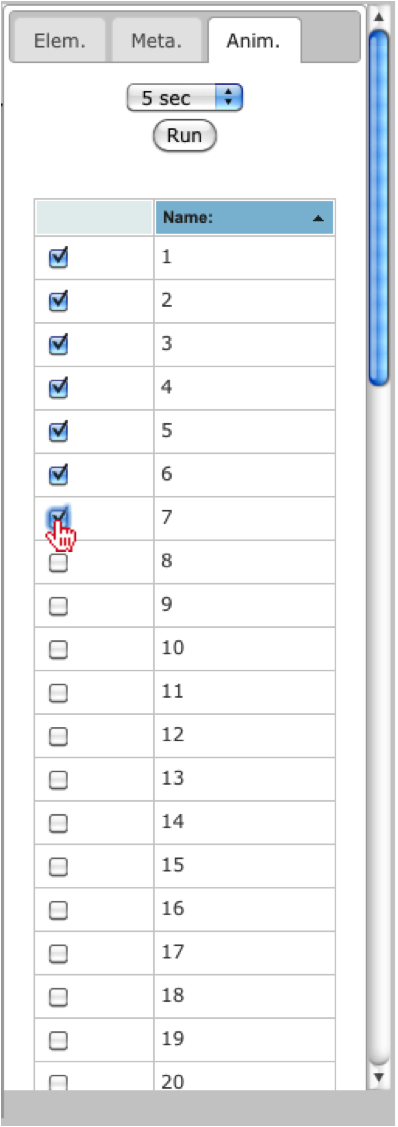
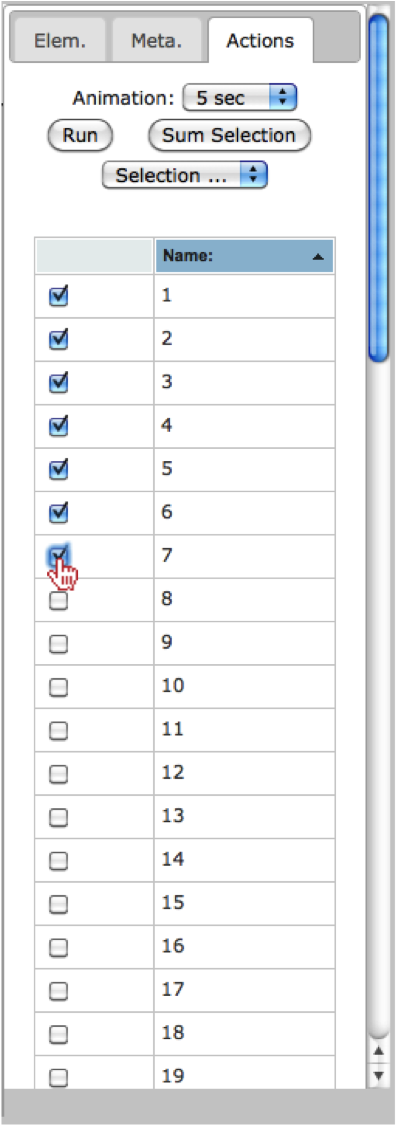
updated figures and text to correspond to those figures.

Changed region(s): [[0.0, 0.0, 0.9975, 1.0], [0.9068, 0.0, 0.9975, 0.3416], [0.9068, 0.9006, 0.9975, 0.9627]]

diff --git a/doc_source/tutorials/index.rst b/doc_source/tutorials/index.rst
@@ -40,7 +40,7 @@ Now that the image is loaded, we need to open the associated metadata by clickin
     :align: center
     :width: 500px
     
-The user should navigate to the tutorial files again and should select either the principal coordinate file (:file:`hand_weighted_unifrac_pc.txt`) or the summarized taxonomy file (:file:`hand_otu_filtered_sep7_L3.txt`), which were produced by QIIME. For this tutorial, we will select and open the :file:`hand_weighted_unifrac_pc.txt` file. 
+The user should navigate to the tutorial files again and should select either the principal coordinate file (:file:`hand_weighted_unifrac_pc.txt`) or the summarized taxonomy file (:file:`hand_otu_table_phylum.txt`), which were produced by QIIME. For this tutorial, we will select and open the :file:`hand_weighted_unifrac_pc.txt` file. 
 
 .. image:: ../images/open_hand_pc.png
     :align: center
@@ -155,7 +155,7 @@ Now that we have manipulated the colors of the image, we can reset the colors by
 Create Animation
 -----------------
 
-Since there several principal coordinate vectors, the user may want to create an animation, where each category is mapped onto the hand for a short amount of time, then it iterates to the next category. This allows the user to view the mapping of each category without having to select and map each category onto the image.  To generate an animation, the user should select the "Anim." tab in the right-menu. Once selected, we will leave the default timer as 5 seconds.
+Since there several principal coordinate vectors, the user may want to create an animation, where each category is mapped onto the hand for a short amount of time, then it iterates to the next category. This allows the user to view the mapping of each category without having to select and map each category onto the image.  To generate an animation, the user should select the "Actions" tab in the right-menu. Once selected, we will leave the default timer as 5 seconds.
 
 .. image:: ../images/anim_select_time.png
     :align: center
@@ -173,11 +173,17 @@ Now that we have selected the vectors we want to see mapped onto the hand, the u
     :align: center
     :height: 400px
     
+Finally, the user can choose to summarize the selected categories by clicking on the "Sum Selection" button.
+
+.. image:: ../images/sum_categories.png
+    :align: center
+    :height: 400px
+    
     
 Conclusion
 -----------
 
-This completes the tutorial, where we illustrate many of the functionalities currently available in SitePainter. I suggest the user repeats these steps, however; instead of opening the principal coordinates file, I suggest the user opens the summarized taxonomy file (:file:`hand_otu_filtered_sep7_L3.txt`) to visualize the Phylum-level abundance at each region of the hand.
+This completes the tutorial, where we illustrate many of the functionalities currently available in SitePainter. I suggest the user repeats these steps, however; instead of opening the principal coordinates file, I suggest the user opens the summarized taxonomy file (:file:`hand_otu_table_phylum.txt`) to visualize the Phylum-level abundance at each region of the hand.
 
 References
 ----------------------------- 

diff --git a/doc_source/documentation/animation.rst b/doc_source/documentation/animation.rst
@@ -1,10 +1,10 @@
 .. _edit_svg:
 
-============================
-Generate Animation
-============================
+===========================================
+Generate Animation or Summarize Categories
+===========================================
 
-To generate an animation, the user should first select the "Anim." tab in the right menu.  Once selected, the user will have the option of setting the time for each static image to appear (i.e. 5, 10, 15 or 20 seconds).
+To generate an animation, the user should first select the "Actions" tab in the right menu.  Once selected, the user will have the option of setting the time for each static image to appear (i.e. 5, 10, 15 or 20 seconds).
 
 .. image:: ../images/anim_select_time.png
     :align: center
@@ -19,5 +19,11 @@ The user should also select the categories to show within the animation, by chec
 Once the options have been selected the user should click on the "Run" button to animate the iteration over each of the selected categories.
 
 .. image:: ../images/anim_run.png
+    :align: center
+    :height: 400px
+    
+Alternatively, the user can choose to summarize the selected categories by clicking on the "Sum Selection" button.
+
+.. image:: ../images/sum_categories.png
     :align: center
     :height: 400px

diff --git a/doc_source/install/index.rst b/doc_source/install/index.rst
@@ -10,12 +10,12 @@
 Installing SitePainter
 ======================
 
-SitePainter is a desktop application that runs in `Firefox <http://www.mozilla.org/firefox/>`_ > 3.6.0 but we recommend using the latest stable version. Download the `SitePainter <http://sourceforge.net/projects/sitepainter/files/releases/sitepainter_0.9.zip/download>`_ release package, unzip the downloaded file and open the index.html file inside the new created folder (make sure that you are using Firefox!).
+SitePainter is a desktop application that runs in `Firefox <http://www.mozilla.org/firefox/>`_ >= 4.0.0 but we recommend using the latest stable version. Download the `SitePainter <http://sourceforge.net/projects/sitepainter/files/releases/sitepainter_0.9.zip/download>`_ release package, unzip the downloaded file and open the index.html file inside the new created folder (make sure that you are using Firefox!).
 
 Dependencies required for all features of SitePainter
 -----------------------------------------------------
 
-* Firefox 3.6.0 (`link <http://www.mozilla.org/firefox/>`_)
+* Firefox (`link <http://www.mozilla.org/firefox/>`_)
 * jre1.5.0 (`link <http://java.sun.com/javase/downloads/index.jsp>`_)
 
 Stable Pre-Release

diff --git a/doc_source/documentation/index.rst b/doc_source/documentation/index.rst
@@ -9,7 +9,7 @@
 ==========================
 SitePainter Documentation
 ==========================
-These pages provide references on different features of SitePainter. If you're instead looking for a tutorial to guide you through an analyses, you should refer to the `SitePainter tutorial <../tutorials/index.html>`_.
+These pages provide references on different features of SitePainter. If you're instead looking for a tutorial to guide you through an analysis, you should refer to the `SitePainter tutorial <../tutorials/index.html>`_.
 
 .. toctree::
    :maxdepth: 1
